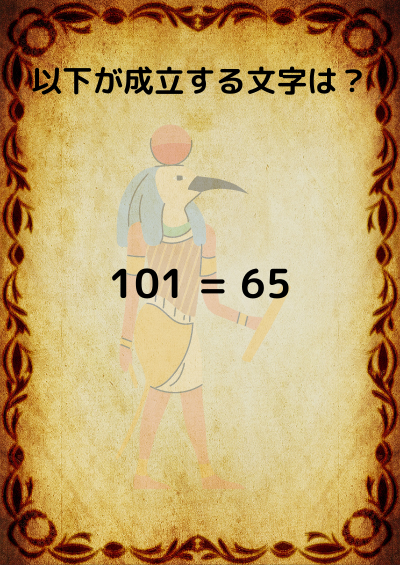
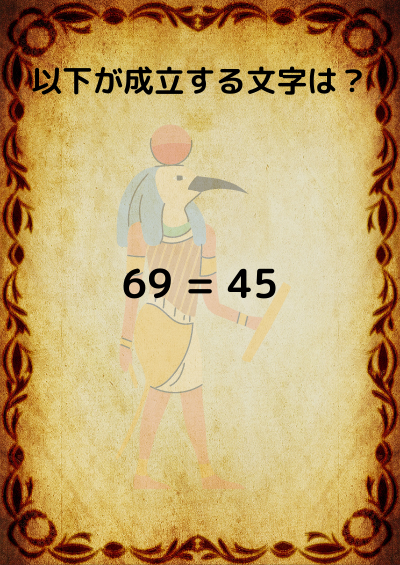
ヒントを追加した。

Changed region(s): [[0.48, 0.4513, 0.72, 0.5416], [0.27, 0.4513, 0.45, 0.5416]]

diff --git a/lib/model/mystery_item.freezed.dart b/lib/model/mystery_item.freezed.dart
@@ -26,12 +26,14 @@ class _$MysteryItemTearOff {
       {required int id,
       required String kind,
       required bool isResolved,
-      required String imagePath}) {
+      required String imagePath,
+      required String hint}) {
     return _MysteryItem(
       id: id,
       kind: kind,
       isResolved: isResolved,
       imagePath: imagePath,
+      hint: hint,
     );
   }
 
@@ -49,6 +51,7 @@ mixin _$MysteryItem {
   String get kind => throw _privateConstructorUsedError;
   bool get isResolved => throw _privateConstructorUsedError;
   String get imagePath => throw _privateConstructorUsedError;
+  String get hint => throw _privateConstructorUsedError;
 
   Map<String, dynamic> toJson() => throw _privateConstructorUsedError;
   @JsonKey(ignore: true)
@@ -61,7 +64,8 @@ abstract class $MysteryItemCopyWith<$Res> {
   factory $MysteryItemCopyWith(
           MysteryItem value, $Res Function(MysteryItem) then) =
       _$MysteryItemCopyWithImpl<$Res>;
-  $Res call({int id, String kind, bool isResolved, String imagePath});
+  $Res call(
+      {int id, String kind, bool isResolved, String imagePath, String hint});
 }
 
 /// @nodoc
@@ -78,6 +82,7 @@ class _$MysteryItemCopyWithImpl<$Res> implements $MysteryItemCopyWith<$Res> {
     Object? kind = freezed,
     Object? isResolved = freezed,
     Object? imagePath = freezed,
+    Object? hint = freezed,
   }) {
     return _then(_value.copyWith(
       id: id == freezed
@@ -96,6 +101,10 @@ class _$MysteryItemCopyWithImpl<$Res> implements $MysteryItemCopyWith<$Res> {
           ? _value.imagePath
           : imagePath // ignore: cast_nullable_to_non_nullable
               as String,
+      hint: hint == freezed
+          ? _value.hint
+          : hint // ignore: cast_nullable_to_non_nullable
+              as String,
     ));
   }
 }
@@ -107,7 +116,8 @@ abstract class _$MysteryItemCopyWith<$Res>
           _MysteryItem value, $Res Function(_MysteryItem) then) =
       __$MysteryItemCopyWithImpl<$Res>;
   @override
-  $Res call({int id, String kind, bool isResolved, String imagePath});
+  $Res call(
+      {int id, String kind, bool isResolved, String imagePath, String hint});
 }
 
 /// @nodoc
@@ -126,6 +136,7 @@ class __$MysteryItemCopyWithImpl<$Res> extends _$MysteryItemCopyWithImpl<$Res>
     Object? kind = freezed,
     Object? isResolved = freezed,
     Object? imagePath = freezed,
+    Object? hint = freezed,
   }) {
     return _then(_MysteryItem(
       id: id == freezed
@@ -144,6 +155,10 @@ class __$MysteryItemCopyWithImpl<$Res> extends _$MysteryItemCopyWithImpl<$Res>
           ? _value.imagePath
           : imagePath // ignore: cast_nullable_to_non_nullable
               as String,
+      hint: hint == freezed
+          ? _value.hint
+          : hint // ignore: cast_nullable_to_non_nullable
+              as String,
     ));
   }
 }
@@ -155,7 +170,8 @@ class _$_MysteryItem with DiagnosticableTreeMixin implements _MysteryItem {
       {required this.id,
       required this.kind,
       required this.isResolved,
-      required this.imagePath});
+      required this.imagePath,
+      required this.hint});
 
   factory _$_MysteryItem.fromJson(Map<String, dynamic> json) =>
       _$$_MysteryItemFromJson(json);
@@ -168,10 +184,12 @@ class _$_MysteryItem with DiagnosticableTreeMixin implements _MysteryItem {
   final bool isResolved;
   @override
   final String imagePath;
+  @override
+  final String hint;
 
   @override
   String toString({DiagnosticLevel minLevel = DiagnosticLevel.info}) {
-    return 'MysteryItem(id: $id, kind: $kind, isResolved: $isResolved, imagePath: $imagePath)';
+    return 'MysteryItem(id: $id, kind: $kind, isResolved: $isResolved, imagePath: $imagePath, hint: $hint)';
   }
 
   @override
@@ -182,7 +200,8 @@ class _$_MysteryItem with DiagnosticableTreeMixin implements _MysteryItem {
       ..add(DiagnosticsProperty('id', id))
       ..add(DiagnosticsProperty('kind', kind))
       ..add(DiagnosticsProperty('isResolved', isResolved))
-      ..add(DiagnosticsProperty('imagePath', imagePath));
+      ..add(DiagnosticsProperty('imagePath', imagePath))
+      ..add(DiagnosticsProperty('hint', hint));
   }
 
   @override
@@ -194,7 +213,8 @@ class _$_MysteryItem with DiagnosticableTreeMixin implements _MysteryItem {
             const DeepCollectionEquality().equals(other.kind, kind) &&
             const DeepCollectionEquality()
                 .equals(other.isResolved, isResolved) &&
-            const DeepCollectionEquality().equals(other.imagePath, imagePath));
+            const DeepCollectionEquality().equals(other.imagePath, imagePath) &&
+            const DeepCollectionEquality().equals(other.hint, hint));
   }
 
   @override
@@ -203,7 +223,8 @@ class _$_MysteryItem with DiagnosticableTreeMixin implements _MysteryItem {
       const DeepCollectionEquality().hash(id),
       const DeepCollectionEquality().hash(kind),
       const DeepCollectionEquality().hash(isResolved),
-      const DeepCollectionEquality().hash(imagePath));
+      const DeepCollectionEquality().hash(imagePath),
+      const DeepCollectionEquality().hash(hint));
 
   @JsonKey(ignore: true)
   @override
@@ -221,7 +242,8 @@ abstract class _MysteryItem implements MysteryItem {
       {required int id,
       required String kind,
       required bool isResolved,
-      required String imagePath}) = _$_MysteryItem;
+      required String imagePath,
+      required String hint}) = _$_MysteryItem;
 
   factory _MysteryItem.fromJson(Map<String, dynamic> json) =
       _$_MysteryItem.fromJson;
@@ -234,6 +256,8 @@ abstract class _MysteryItem implements MysteryItem {
   bool get isResolved;
   @override
   String get imagePath;
+  @override
+  String get hint;
   @override
   @JsonKey(ignore: true)
   _$MysteryItemCopyWith<_MysteryItem> get copyWith =>

diff --git a/lib/view/mystery.dart b/lib/view/mystery.dart
@@ -14,6 +14,54 @@ class Mystery extends StatefulWidget {
 }
 
 class _MysteryState extends State<Mystery> {
+  void _checkHint() {
+    showDialog(
+      context: context,
+      builder: (_) {
+        return AlertDialog(
+          title: const Text(Strings.hintCheckTitle),
+          actions: <Widget>[
+            TextButton(
+              child: const Text(Strings.yesButton),
+              onPressed: () {
+                _dismiss();
+                _showHint();
+              },
+            ),
+            TextButton(
+              child: const Text(Strings.noButton),
+              onPressed: () => _dismiss(),
+            ),
+          ],
+        );
+      },
+    );
+  }
+
+  void _showHint() {
+    showDialog(
+      context: context,
+      builder: (_) {
+        return AlertDialog(
+          title: const Text(Strings.hintTitle),
+          content: Text(widget.item.hint),
+          actions: <Widget>[
+            TextButton(
+              child: const Text(Strings.closeButton),
+              onPressed: () {
+                Navigator.of(context).pop();
+              },
+            ),
+          ],
+        );
+      },
+    );
+  }
+
+  void _dismiss() {
+    Navigator.pop(context);
+  }
+
   @override
   Widget build(BuildContext context) {
     final item = widget.item;
@@ -55,15 +103,15 @@ class _MysteryState extends State<Mystery> {
               ],
             ),
           ),
-          // Positioned(
-          //   right: 20.w,
-          //   bottom: 116.h,
-          //   child: FloatingActionButton(
-          //     child: const Icon(Icons.lightbulb),
-          //     backgroundColor: AppColors.mainColor,
-          //     onPressed: () { print("ssss");},
-          //   ),
-          // ),
+          Positioned(
+            right: 20.w,
+            bottom: 156.h,
+            child: FloatingActionButton(
+              child: const Icon(Icons.lightbulb),
+              backgroundColor: AppColors.mainColor,
+              onPressed: () => _checkHint(),
+            ),
+          ),
         ],
       ),
     );

diff --git a/lib/constant/strings.dart b/lib/constant/strings.dart
@@ -1,6 +1,8 @@
 class Strings {
   // Title.
   static const appTitle = '古代エジプトからの挑戦状';
+  static const hintTitle = 'ヒント';
+  static const hintCheckTitle = 'ヒントを見ますか？';
 
   // Button.
   static const startButton = 'Tap Start!!';
@@ -9,6 +11,9 @@ class Strings {
   static const releaseButton = 'タップで解放';
   static const clearButton = 'CLEARED!!';
   static const sendButton = '回答する';
+  static const closeButton = '閉じる';
+  static const yesButton = 'はい';
+  static const noButton = 'いいえ';
 
   // Path.
   static const keyListPath = '/key/list';

diff --git a/lib/model/mystery_item.g.dart b/lib/model/mystery_item.g.dart
@@ -12,6 +12,7 @@ _$_MysteryItem _$$_MysteryItemFromJson(Map<String, dynamic> json) =>
       kind: json['kind'] as String,
       isResolved: json['isResolved'] as bool,
       imagePath: json['imagePath'] as String,
+      hint: json['hint'] as String,
     );
 
 Map<String, dynamic> _$$_MysteryItemToJson(_$_MysteryItem instance) =>
@@ -20,4 +21,5 @@ Map<String, dynamic> _$$_MysteryItemToJson(_$_MysteryItem instance) =>
       'kind': instance.kind,
       'isResolved': instance.isResolved,
       'imagePath': instance.imagePath,
+      'hint': instance.hint,
     };

diff --git a/lib/view/home.dart b/lib/view/home.dart
@@ -47,7 +47,7 @@ class _HomeState extends ConsumerState<Home> {
   Widget build(BuildContext context) {
     final size = MediaQuery.of(context).size;
     final clearedCount =
-        ref.watch(appViewModelNotifierProvider).clearedCount ?? 0123;
+        ref.watch(appViewModelNotifierProvider).clearedCount ?? 0;
     return Scaffold(
       body: SafeArea(
         child: Stack(

diff --git a/lib/view_model/app_view_model.dart b/lib/view_model/app_view_model.dart
@@ -44,6 +44,7 @@ class AppViewModel extends ChangeNotifier {
       kind: targetItem.kind,
       isResolved: true,
       imagePath: targetItem.imagePath,
+      hint: targetItem.hint,
     );
     final newsItems =
     _items.map((value) => value.id == id ? newItem : value).toList();

diff --git a/lib/model/mystery_item.dart b/lib/model/mystery_item.dart
@@ -12,6 +12,7 @@ class MysteryItem with _$MysteryItem {
     required String kind,
     required bool isResolved,
     required String imagePath,
+    required String hint,
   }) = _MysteryItem;
 
   factory MysteryItem.fromJson(Map<String, dynamic> json) =>
